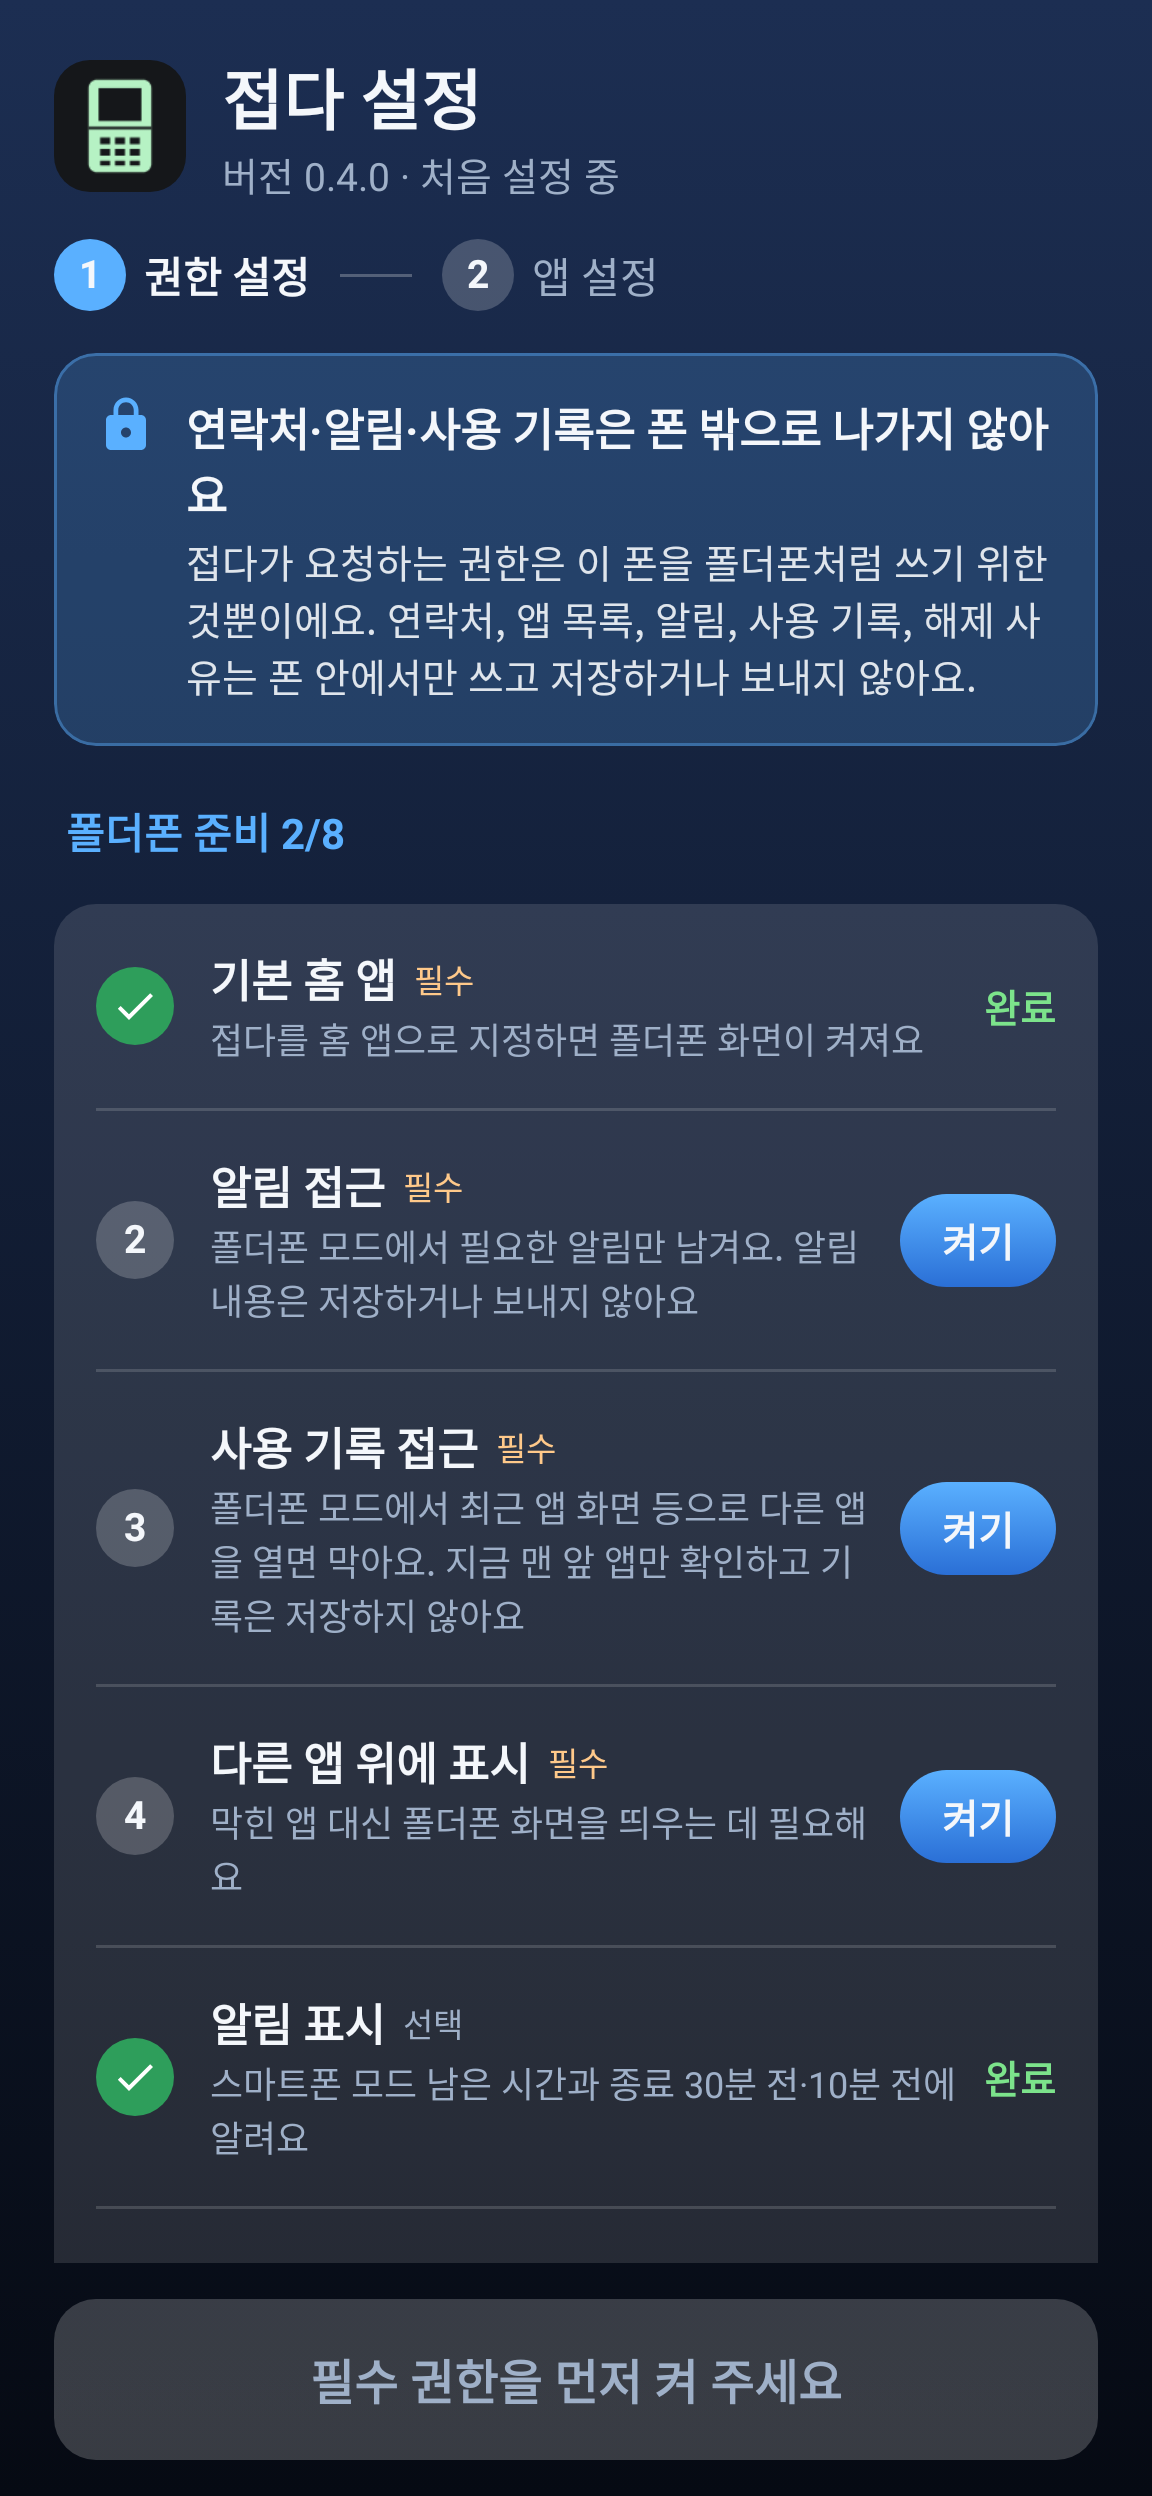
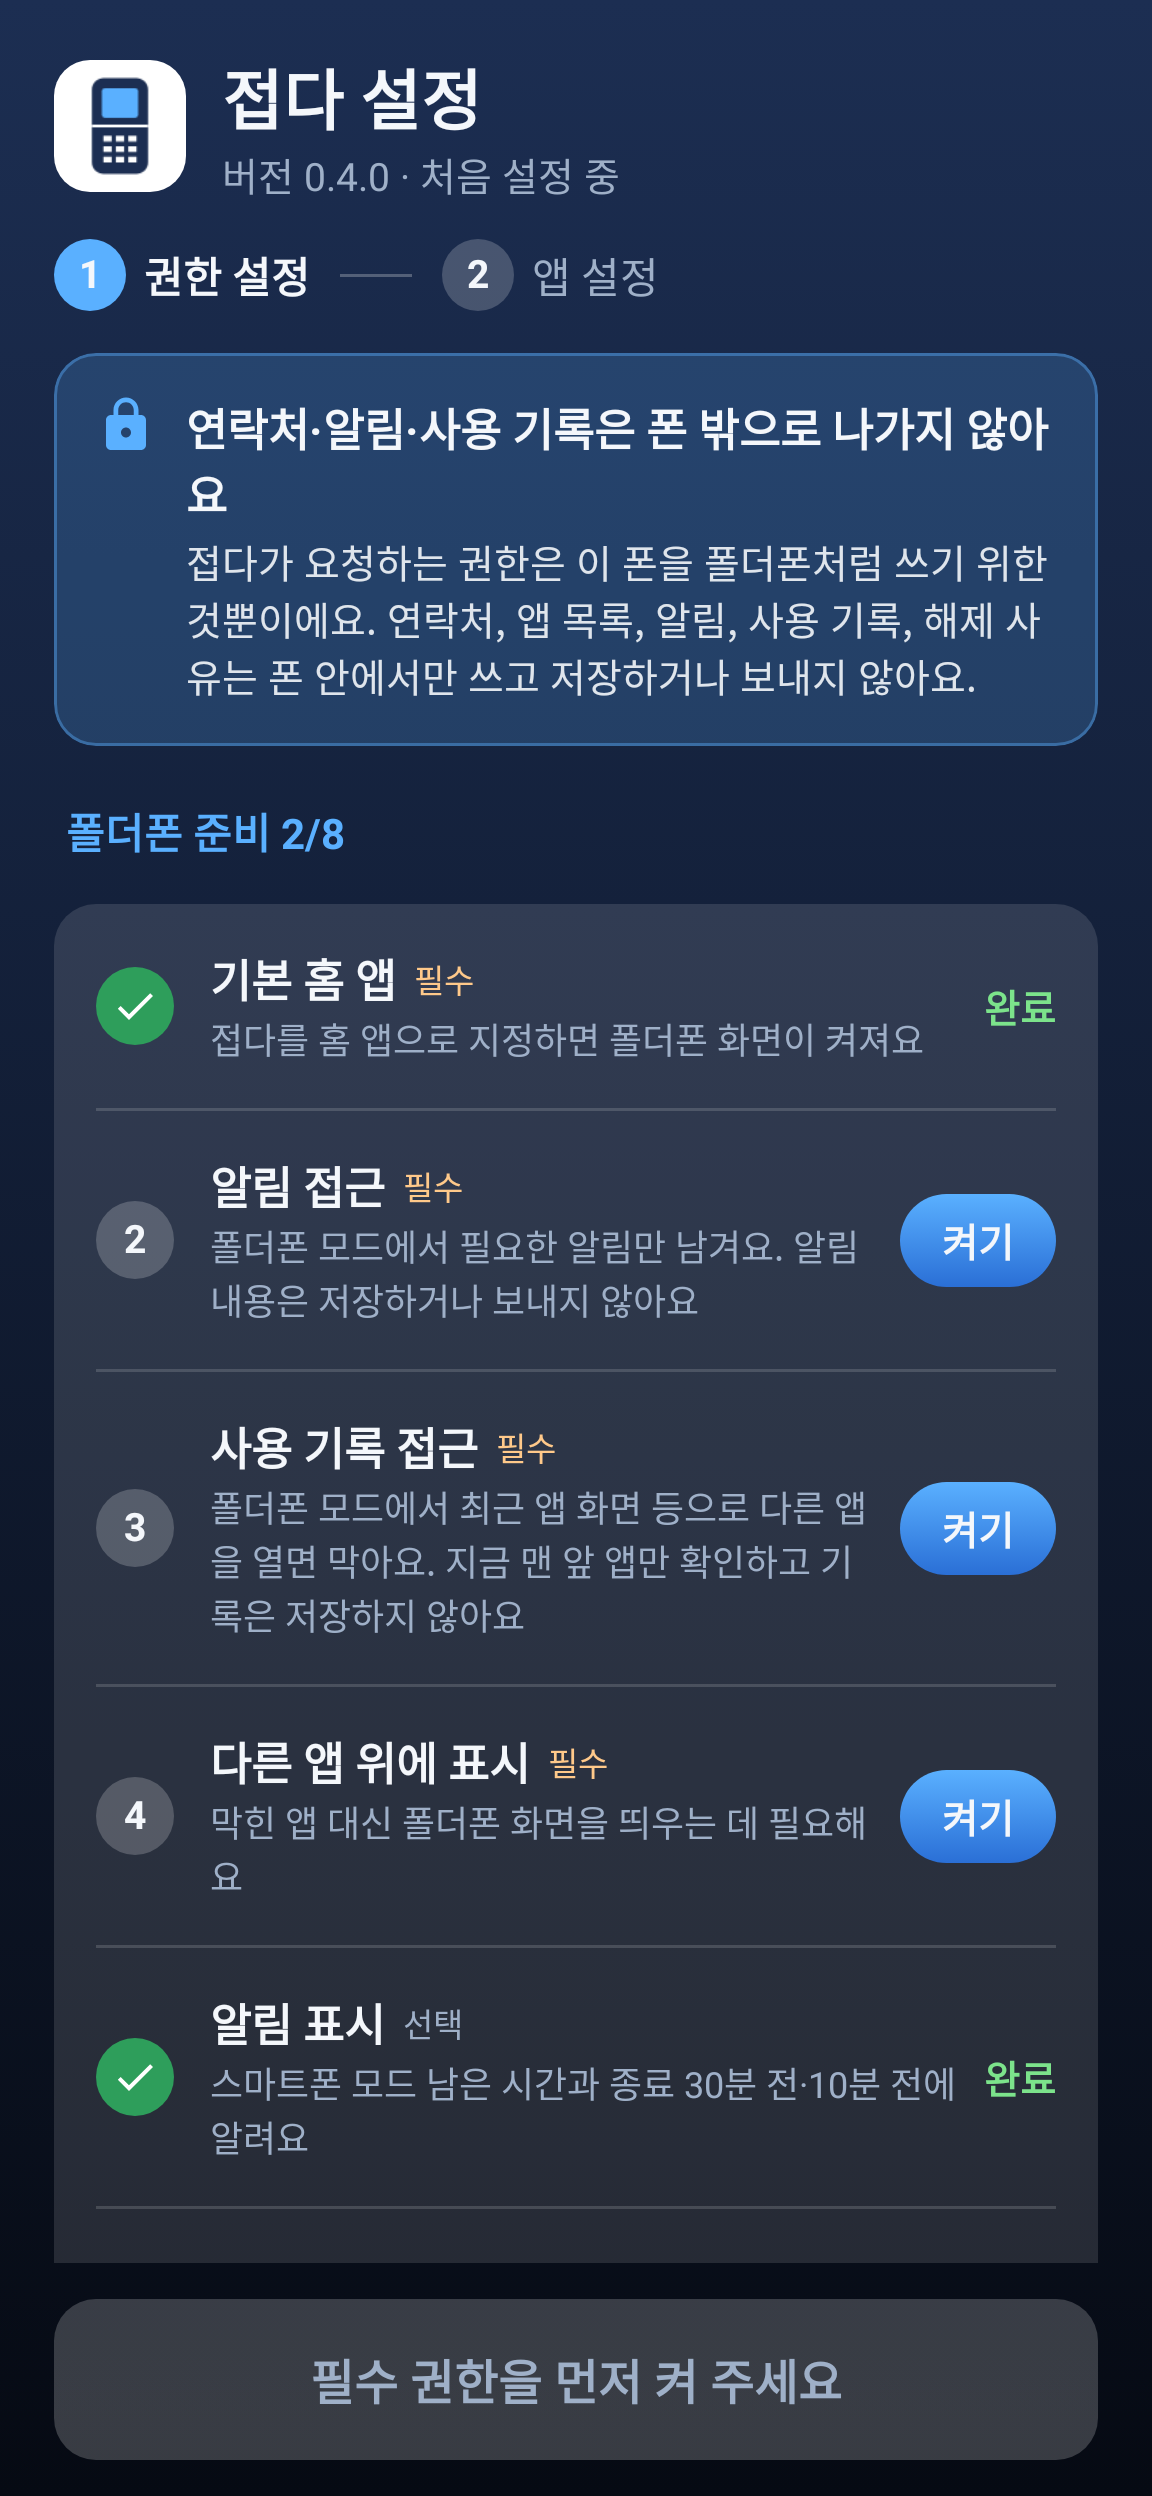
앱 아이콘: 흰 바탕에 남색 폴더폰, 파란 화면
- 런처 아이콘 바탕 흰색, 앱 안 설정 머리말·스토어 아이콘(512)·그래픽 이미지도 맞춤

Claude-Session: https://claude.ai/code/session_01NTGzdmekjWKd9sVyjh3UtQ

Changed region(s): [[0.0312, 0.0, 0.1875, 0.0938]]

diff --git a/app/src/test/java/com/aggro1025/jeopda/ui/StoreAssetsTest.kt b/app/src/test/java/com/aggro1025/jeopda/ui/StoreAssetsTest.kt
@@ -91,7 +91,7 @@ class StoreAssetsTest {
     // ---- 앱 아이콘 512x512 (구글 플레이가 모서리를 둥글게 잘라 보여줌) ----
     @Test @Config(sdk = [35], qualifiers = "w512dp-h512dp-mdpi")
     fun icon() = save("icon_512") {
-        Box(Modifier.fillMaxSize().background(Lcd.body), contentAlignment = Alignment.Center) {
+        Box(Modifier.fillMaxSize().background(androidx.compose.ui.graphics.Color.White), contentAlignment = Alignment.Center) {
             Image(
                 painterResource(R.drawable.ic_launcher_foreground),
                 contentDescription = null,
@@ -111,7 +111,7 @@ class StoreAssetsTest {
             Row(Modifier.fillMaxSize().padding(start = 64.dp), verticalAlignment = Alignment.CenterVertically) {
                 Column(Modifier.width(520.dp)) {
                     Box(
-                        Modifier.size(96.dp).clip(RoundedCornerShape(24.dp)).background(Lcd.body),
+                        Modifier.size(96.dp).clip(RoundedCornerShape(24.dp)).background(androidx.compose.ui.graphics.Color.White),
                         contentAlignment = Alignment.Center,
                     ) {
                         Image(

diff --git a/app/src/main/java/com/aggro1025/jeopda/ui/settings/SettingsDesign.kt b/app/src/main/java/com/aggro1025/jeopda/ui/settings/SettingsDesign.kt
@@ -134,7 +134,7 @@ fun SettingsDesign(
             ) {
                 Row(verticalAlignment = Alignment.CenterVertically) {
                     Box(
-                        Modifier.size(44.dp).clip(RoundedCornerShape(12.dp)).background(Lcd.body),
+                        Modifier.size(44.dp).clip(RoundedCornerShape(12.dp)).background(androidx.compose.ui.graphics.Color.White),
                         contentAlignment = Alignment.Center,
                     ) {
                         Image(
